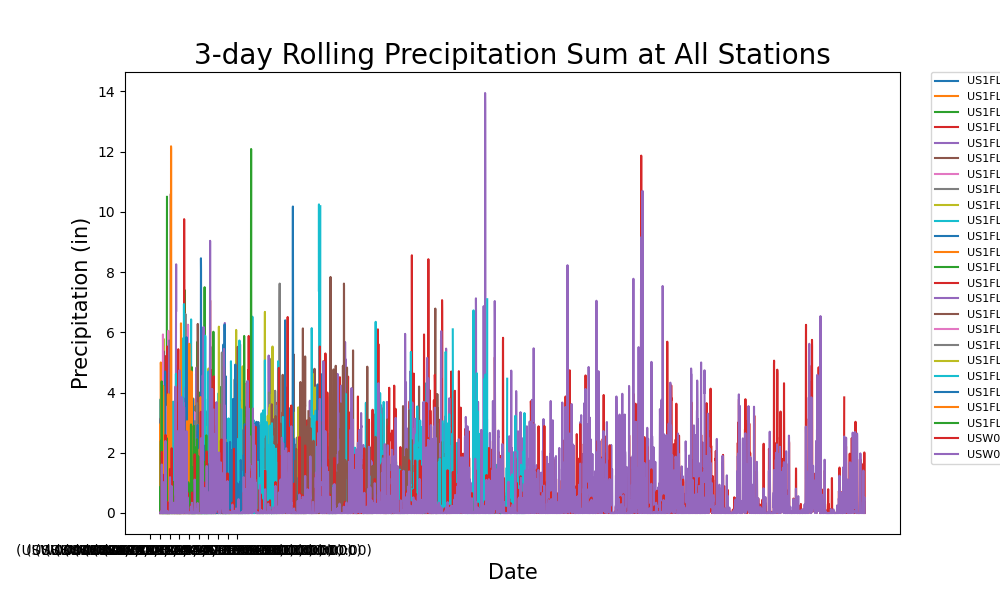
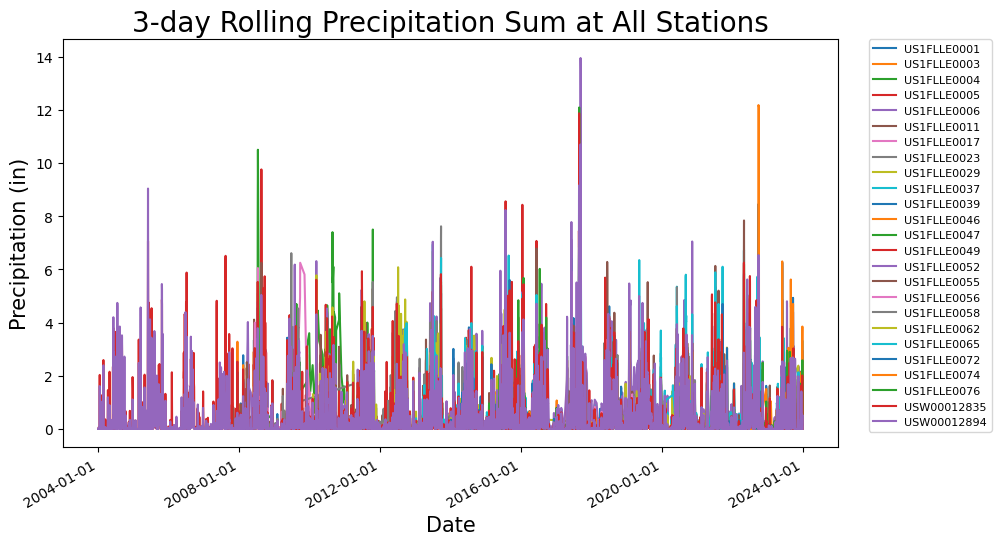
Fixed theh plot3D of Boss (Michelle)

diff --git a/ABE651 Final Project.py b/ABE651 Final Project.py
@@ -8,6 +8,7 @@ Created on Sun Apr  7 09:52:16 2024
 import geopandas as gpd
 import matplotlib.pyplot as plt
 import contextily as ctx
+from matplotlib.dates import DateFormatter
 from shapely.geometry import Point
 import pandas as pd
 from scipy import stats
@@ -662,7 +663,7 @@ def plot_max_daily_tide( DataDF , outFileName):
     
     # Find the Maximum Monthly Tide
     plotData['Max Tide'] = DataDF['Verified (ft)'].resample("D").max(numeric_only=True)
-    print(plotData['Max Tide'])
+    # print(plotData['Max Tide'])
     # Prepare the plot
     fig, ax = plt.subplots(figsize=(10, 6))
     
@@ -679,22 +680,35 @@ def plot_max_daily_tide( DataDF , outFileName):
     #plt.close(fig)  # Close the plot figure to free up memory
 
 def plot_3Dprecip_rolling_sum( DataDF , outFileName ):
-    # create empty dataframe "plotData"
-    df = pd.DataFrame()
-    df['Rolling Sum'] = DataDF.groupby('STATION')['PRCP'].rolling(window=3).sum()
-    df.reset_index()
-    
-    print(df)
-    
-    fig, ax = plt.subplots(figsize=(10, 6))
-    df.groupby('STATION')['Rolling Sum'].plot(legend=True)
-    plt.xlabel('Date', fontsize = 15)
-    plt.ylabel('Precipitation (in)', fontsize = 15) #y-axis label
-    plt.title("3-day Rolling Precipitation Sum at All Stations", fontsize = 20) #title of graph
-    plt.legend(fontsize = 8, bbox_to_anchor=(1.04, 1), borderaxespad=0)
+    # Perform the rolling sum, then reset the index to turn the MultiIndex into columns
+    rolling_df = DataDF.groupby('STATION')['PRCP'].rolling(window=3).sum().reset_index()
 
-    # Save the figure
-    plt.savefig( outFileName )
+    # Rename the columns to reflect the structure after reset_index()
+    rolling_df.columns = ['STATION', 'DATE', 'Rolling Sum']
+
+    # Drop NaN values resulting from the rolling calculation
+    rolling_df = rolling_df.dropna(subset=['Rolling Sum'])
+
+    # Ensure 'DATE' is in datetime format
+    rolling_df['DATE'] = pd.to_datetime(rolling_df['DATE'])
+
+    # Start plotting
+    fig, ax = plt.subplots(figsize=(10, 6))
+    for station, group in rolling_df.groupby('STATION'):
+        ax.plot(group['DATE'], group['Rolling Sum'], label=station)
+
+    # Formatting the x-axis dates
+    ax.xaxis.set_major_formatter(DateFormatter('%Y-%m-%d'))
+    fig.autofmt_xdate()
+
+    # Setting the labels and title
+    plt.xlabel('Date', fontsize=15)
+    plt.ylabel('Precipitation (in)', fontsize=15)
+    plt.title("3-day Rolling Precipitation Sum at All Stations", fontsize=20)
+    plt.legend(fontsize=8, bbox_to_anchor=(1.04,1), borderaxespad=0)
+
+    # Saving the figure
+    plt.savefig(outFileName, bbox_inches='tight')
     
     "----------------------------------Plot the Map ---------------------------------------------------------------"
 
@@ -736,33 +750,6 @@ def plot_latitude_longitudeMap(data_frame):
     plt.savefig("MapDrawn.png")
     plt.close(fig)  # Close the plot figure to free up memory
 
-# def main():
-#     try:
-#         # Assuming 'read_precip_data' and 'read_tide_data' are functions that load your data correctly
-#         DailyPrecipDataDF_2003_2023 = read_precip_data("Datasets/Daily Precipitation Data/Daily Precipitation Data_Fort Myers_FL.csv")
-#         TideDataDF_1998_2023 = read_tide_data("Datasets/Hourly Tide Data/CO-OPS_8725520_1998-2023.csv")
-
-#         if DailyPrecipDataDF_2003_2023 is None or TideDataDF_1998_2023 is None:
-#             raise ValueError("Data loading failed, one of the data frames is None")
-
-#         # Further data processing
-#         precip_data_check9999, precip_data_removed = DataQuality_check9999(DailyPrecipDataDF_2003_2023)
-#         if precip_data_check9999 is None:
-#             raise ValueError("9999 check failed, resulting data is None")
-
-#         precip_data_trace_replace, trace_replacements = replace_trace_precip_values(precip_data_check9999)
-#         if precip_data_trace_replace is None:
-#             raise ValueError("Trace replacement failed, resulting data is None")
-
-#         # Example of plotting after checks
-#         if precip_data_trace_replace is not None:
-#             plot_trace(precip_data_check9999['PRCP'], precip_data_trace_replace['PRCP'], 'Replace Trace Precipitation Values', 'Precipitation_Trace_Replace.png')
-
-#     except Exception as e:
-#         print(f"An error occurred during processing: {e}")
-
-
-
 
 # the following condition checks whether we are running as a script, in which 
 # case run the test code, otherwise functions are being imported so do not.
@@ -801,19 +788,15 @@ if __name__ == '__main__':
     """ ----------------------------- Data Quality Checking -------------------------------------- """
     # 1. Data Quality Check for 9999 Values in Precipitation Data
     precip_data_check9999, precip_data_removed =  DataQuality_check9999(PrecipDataDF)
-    #print(f"Removed {precip_data_removed} entries from precipitation data")
     
     # 2. Replace trace precipitation values
     precip_data_trace_replace, trace_replacements = replace_trace_precip_values(precip_data_check9999)
-    #print(f"Trace values replaced: {trace_replacements}")
     
     # 3. Data Quality Check for Blank Values in (Both the files)
     precip_blanks, tide_blanks = DataQuality_checkBlanks(precip_data_check9999, TideDataDF)
-    #print(f"Blank entries found: {precip_blanks} in precipitation data, {tide_blanks} in tide data.")
 
     # 4. Data Quality Check for Gross Values in (Both the files)
     precip_gross_errors, tide_gross_errors = DataQuality_checkGross(precip_data_check9999, TideDataDF)
-    #print(f"Gross error entries found: {precip_gross_errors} in precipitation data, {tide_gross_errors} in tide data.")
 
     #5. Data Quality Check for Outlier Values in (Both the files)
     precip_Zscore_count, tide_Zscore_count = DataQuality_checkZScore(precip_data_check9999, TideDataDF)    
@@ -832,8 +815,6 @@ if __name__ == '__main__':
    
     ''' Original Precipitation vs. Precipitation - Post 9999 Check '''
     plot_checked_data( PrecipDataDF['PRCP'] , precip_data_check9999['PRCP'] , 'Precipitation (in.)', 'Precipitation - 9999 Check' , 'Figures/Precipitation_9999 Check.png' )
-    
-    ''' Original vs. Post Blank Values Check (Both the files) '''
     
     """ ----------------------------- Data Analysis -------------------------------------- """
     # Group Precipitation Seasonal Data by Station and create plot
@@ -862,12 +843,6 @@ if __name__ == '__main__':
 
     plot_latitude_longitudeMap(precip_station_info_df)
     
-
-
-
-
-
-
 
 """-------------------------------------Yearly/Hourly Tide data Combined -------------------------------------------------------"""
 '''# Combine yearly tide data into one .CSV file
